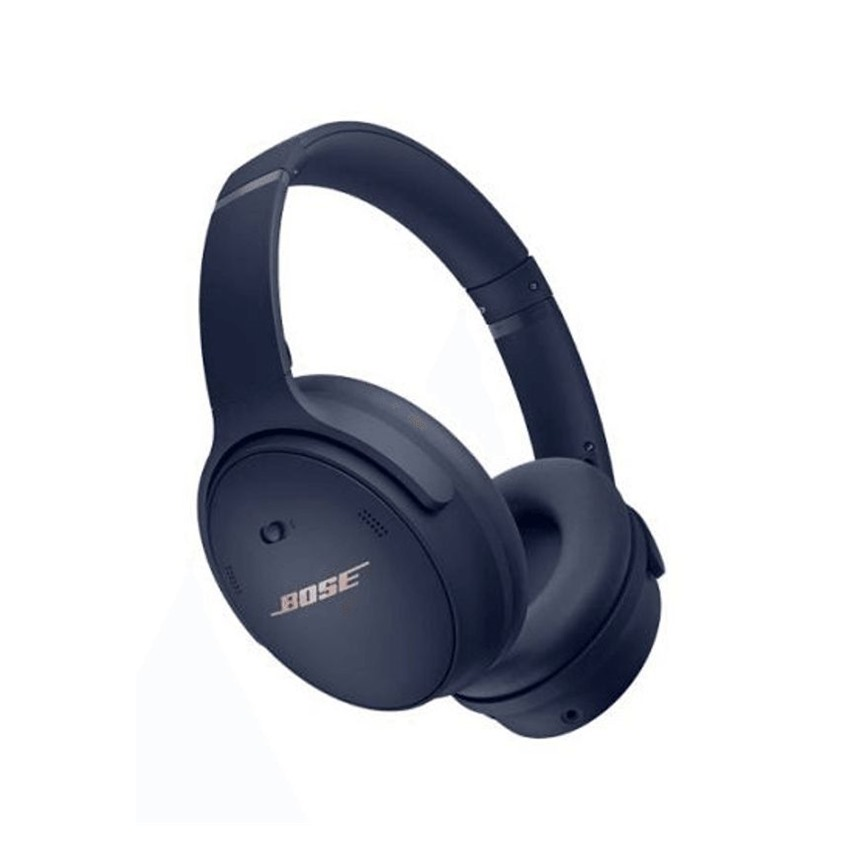
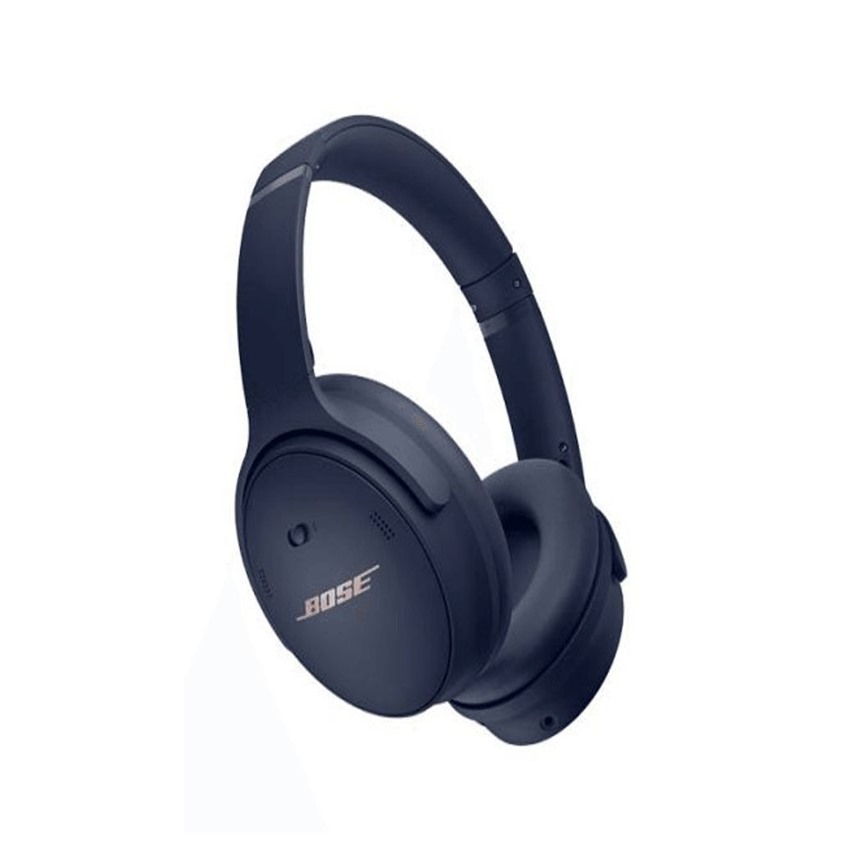
Correct QC45 baked-in horizontal stretch with width compensation.

diff --git a/doomsday/soundshoppie/index.html b/doomsday/soundshoppie/index.html
@@ -472,7 +472,7 @@
         <div class="card-deck d-flex justify-content-center align-items-stretch flex-wrap">
           <div class="product-card m-2">
             <div class="image-container">
-              <img class="card-img-top" src="./products/wh-1000xm.jpg?v=10" alt="Sony WH-1000XM4" />
+              <img class="card-img-top" src="./products/wh-1000xm.jpg?v=11" alt="Sony WH-1000XM4" />
             </div>
             <div class="card-body">
               <h5 class="card-title">WH-1000XM4</h5>
@@ -487,7 +487,7 @@
           </div>
           <div class="product-card m-2">
             <div class="image-container">
-              <img class="card-img-top" src="./products/qc45.jpg?v=10" alt="Bose QuietComfort 45" />
+              <img class="card-img-top" src="./products/qc45.jpg?v=11" alt="Bose QuietComfort 45" />
             </div>
             <div class="card-body">
               <h5 class="card-title">QC45</h5>
@@ -502,7 +502,7 @@
           </div>
           <div class="product-card m-2">
             <div class="image-container">
-              <img class="card-img-top" src="./products/ie-600.jpg?v=10" alt="Sennheiser IE 600" />
+              <img class="card-img-top" src="./products/ie-600.jpg?v=11" alt="Sennheiser IE 600" />
             </div>
             <div class="card-body">
               <h5 class="card-title">IE 600</h5>
@@ -517,7 +517,7 @@
           </div>
           <div class="product-card m-2">
             <div class="image-container">
-              <img class="card-img-top" src="./products/ath-m50.jpg?v=10" alt="Audio-Technica ATH-M50x" />
+              <img class="card-img-top" src="./products/ath-m50.jpg?v=11" alt="Audio-Technica ATH-M50x" />
             </div>
             <div class="card-body">
               <h5 class="card-title">ATH-M50x</h5>
@@ -532,7 +532,7 @@
           </div>
           <div class="product-card m-2">
             <div class="image-container">
-              <img class="card-img-top" src="./products/tune-760.jpg?v=10" alt="JBL Tune 760NC" />
+              <img class="card-img-top" src="./products/tune-760.jpg?v=11" alt="JBL Tune 760NC" />
             </div>
             <div class="card-body">
               <h5 class="card-title">Tune 760NC</h5>
@@ -550,7 +550,7 @@
               <span class="badge rounded-pill badge-notification bg-danger">
                 <div><div class="m-1">15 %</div><div class="m-1">off</div></div>
               </span>
-              <img class="card-img-top" src="./products/wf-1000.jpg?v=10" alt="Sony WF-1000XM4" />
+              <img class="card-img-top" src="./products/wf-1000.jpg?v=11" alt="Sony WF-1000XM4" />
             </div>
             <div class="card-body">
               <h5 class="card-title">WF-1000XM4</h5>
@@ -566,7 +566,7 @@
           </div>
           <div class="product-card m-2">
             <div class="image-container">
-              <img class="card-img-top" src="./products/t5-ii.jpg?v=10" alt="Klipsch T5 II" />
+              <img class="card-img-top" src="./products/t5-ii.jpg?v=11" alt="Klipsch T5 II" />
             </div>
             <div class="card-body">
               <h5 class="card-title">T5 II</h5>
@@ -582,7 +582,7 @@
           <div class="product-card m-2">
             <div class="image-container">
               <div class="overlay"><p class="overlay-text">Out of Stock</p></div>
-              <img class="card-img-top" src="./products/hd-660.jpg?v=10" alt="Sennheiser HD 660S2" />
+              <img class="card-img-top" src="./products/hd-660.jpg?v=11" alt="Sennheiser HD 660S2" />
             </div>
             <div class="card-body">
               <h5 class="card-title">HD 660S2</h5>
